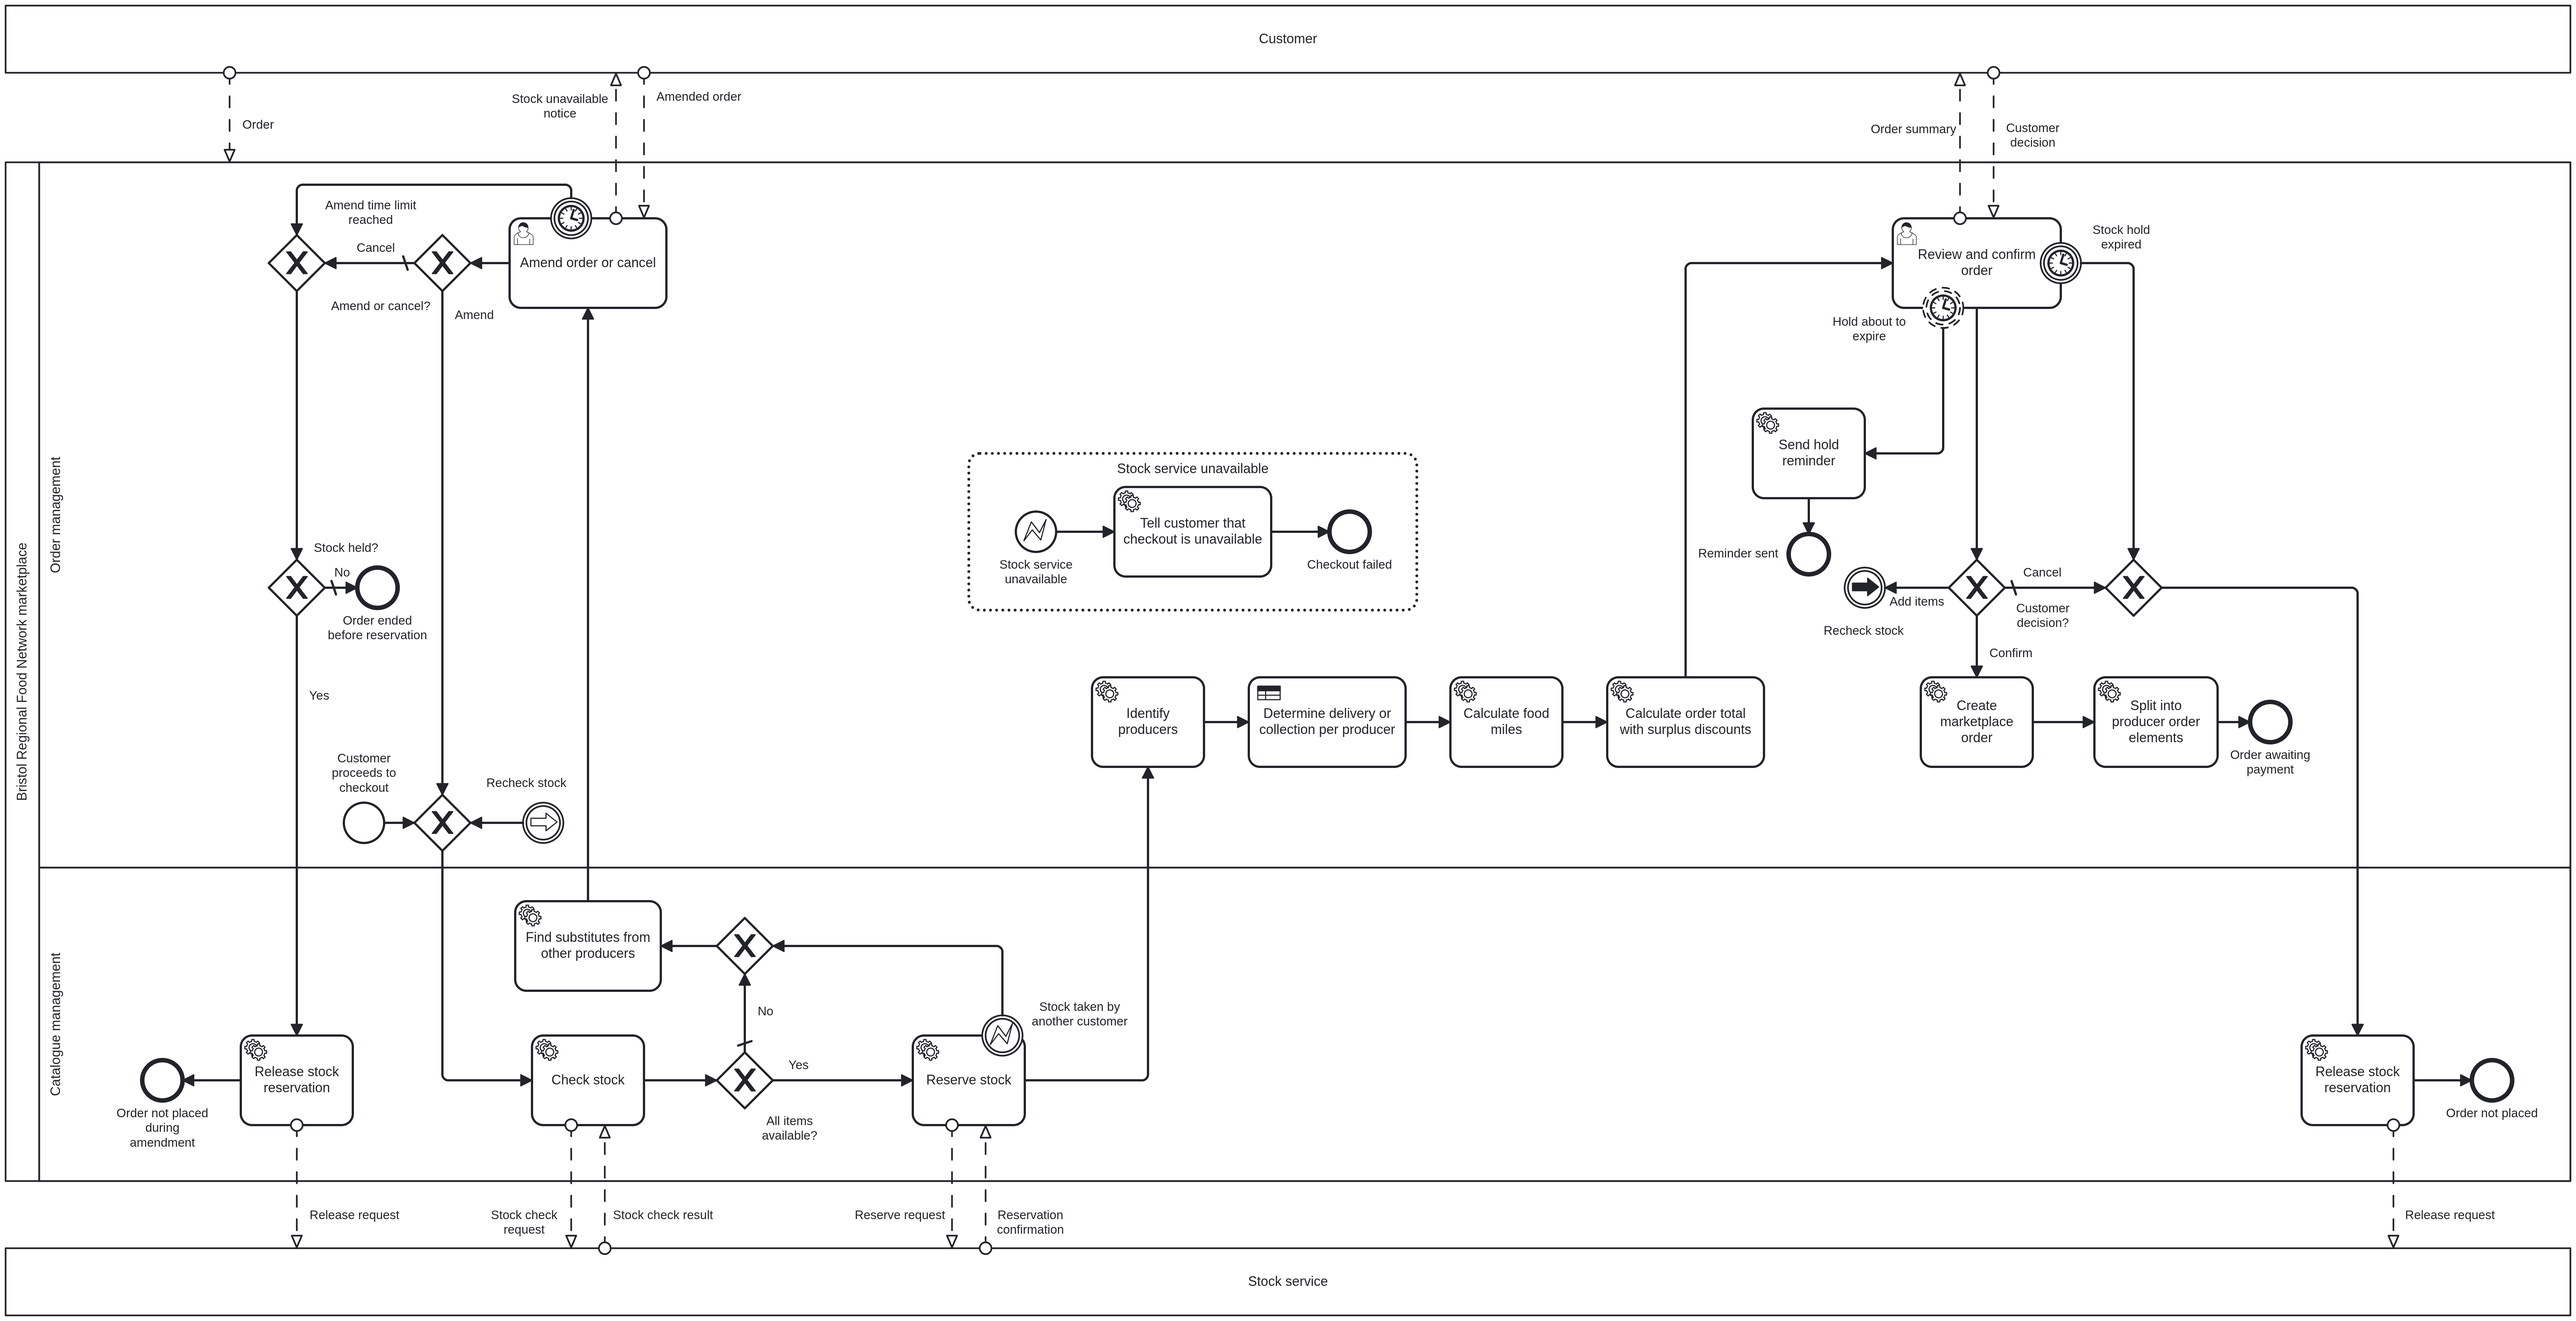
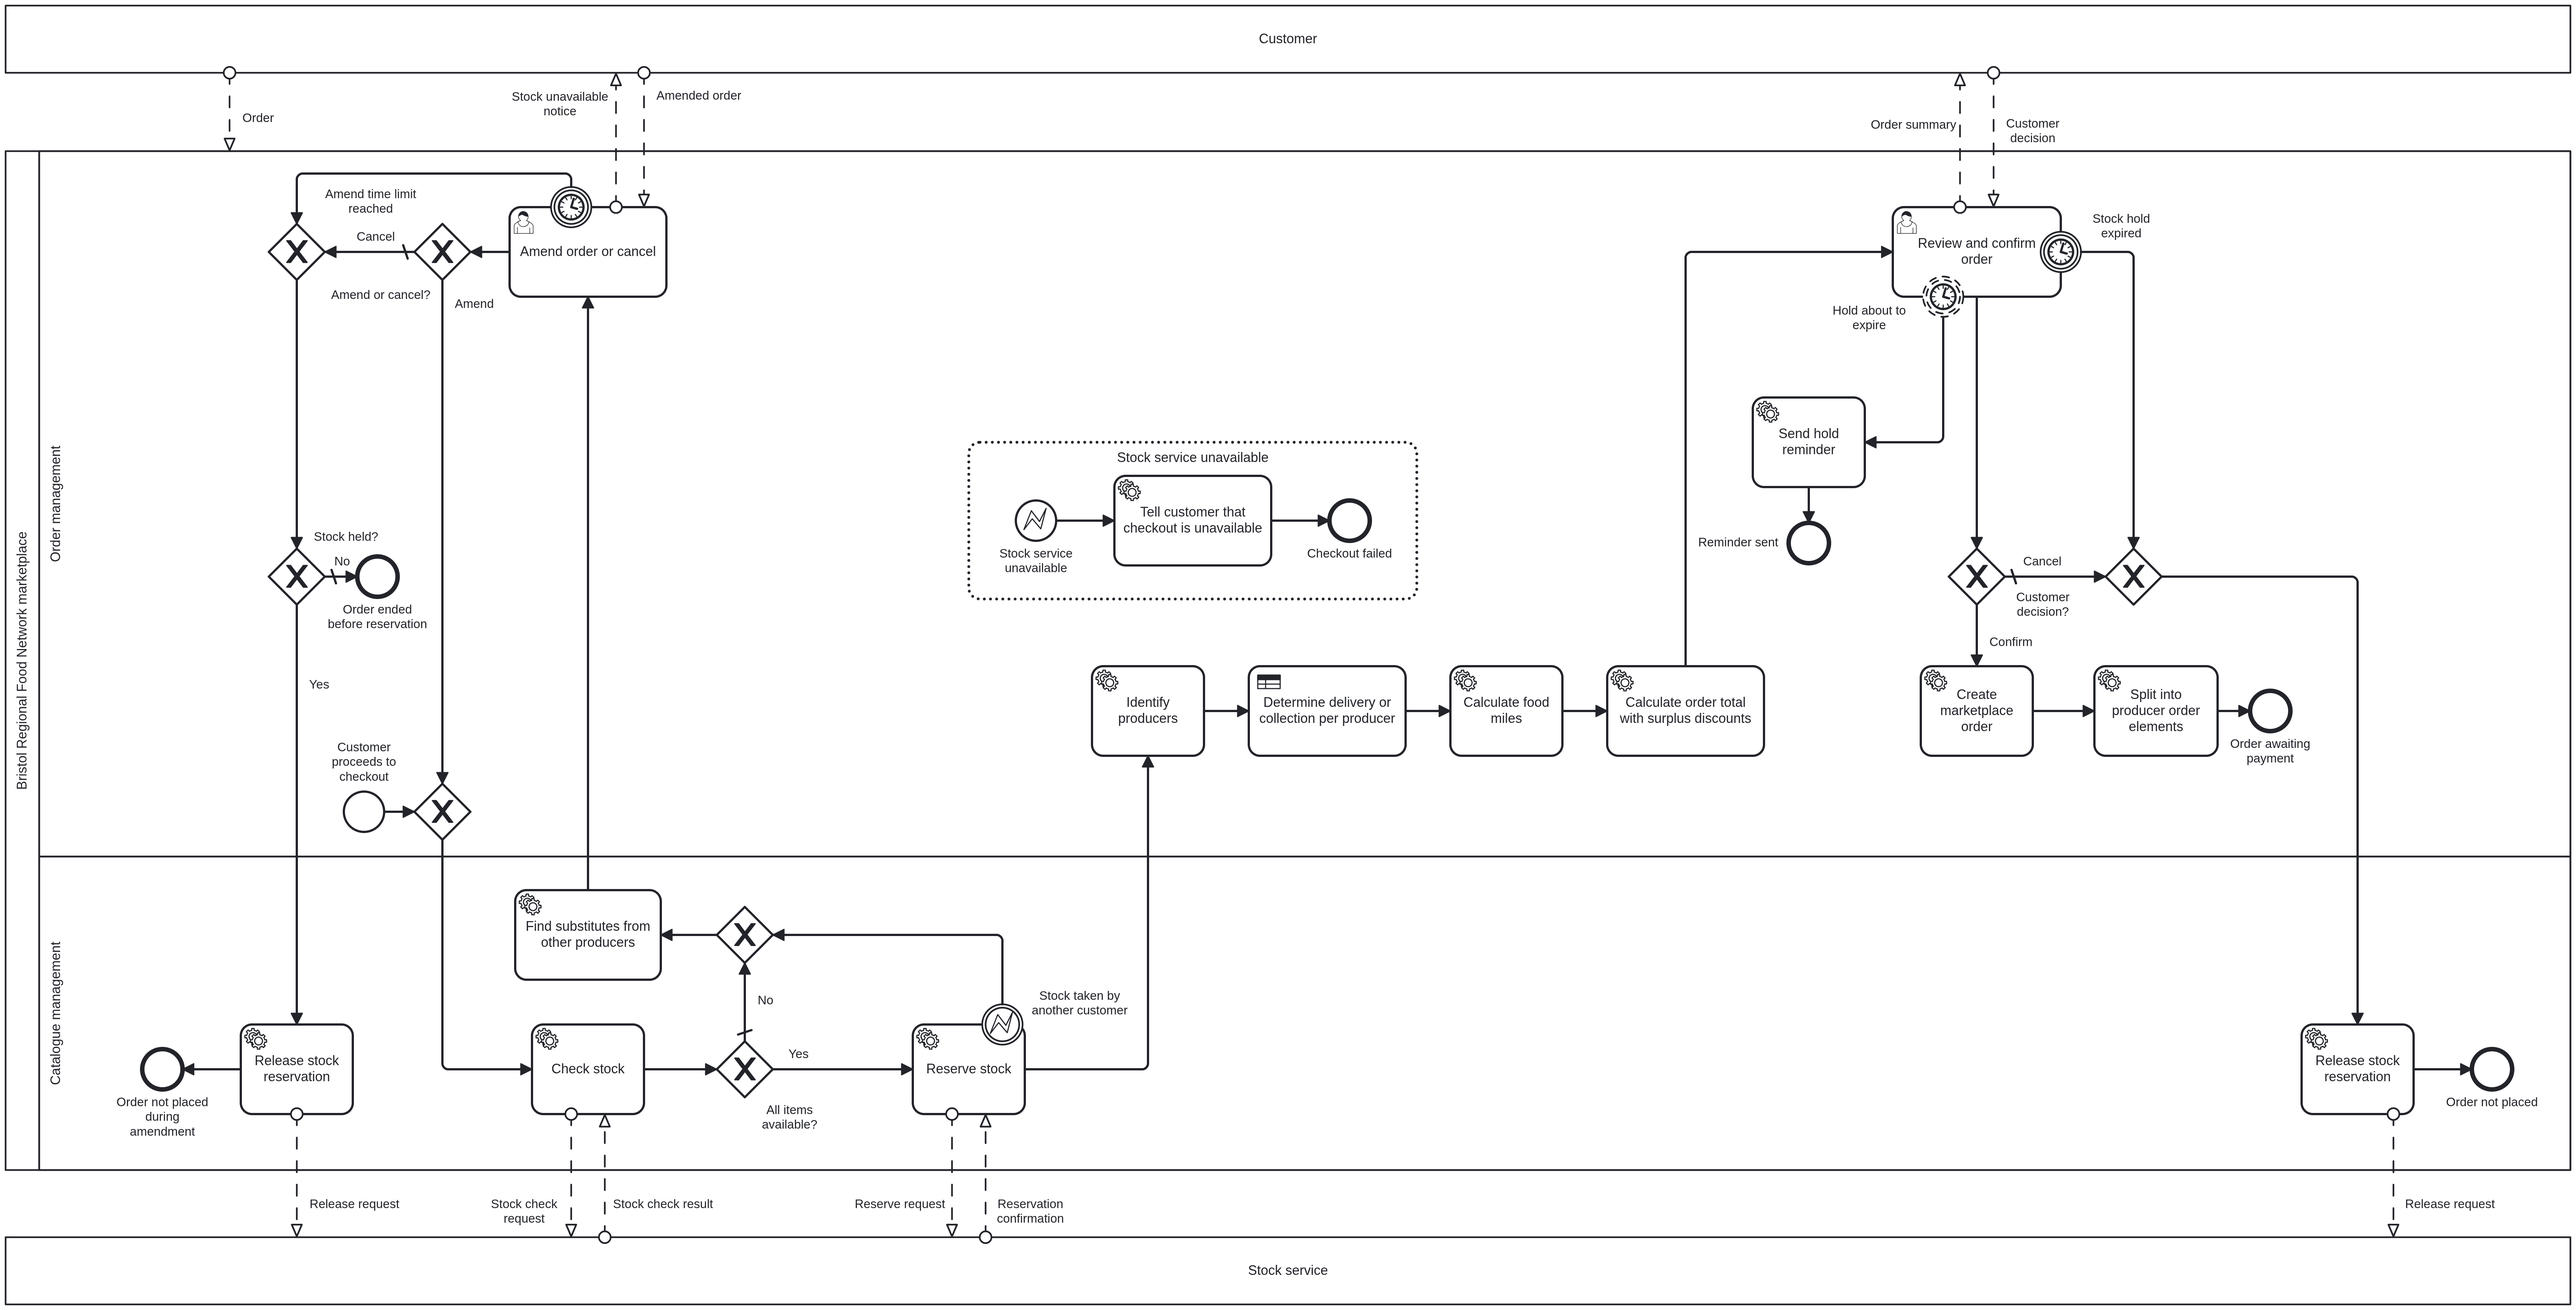
update md file and updated bpmn png

diff --git a/task1-bpmn/operational/process-order.md b/task1-bpmn/operational/process-order.md
@@ -26,6 +26,7 @@ The scope is section 4.2 of [functionalities.md](../../requirements/scope/functi
 | 12 Nov 2026 | Shamy | The exception paths and the timers: the substitutes, the stock taken during the reservation, the amend time limit, the stock hold expiry with its reminder, the "Add items" loop, the stock service failure, the food miles and the surplus discounts. The lane and pool names of the strategic model |
 | 13 Nov 2026 | Royden Dias | Review and approval |
 | 14 Nov 2026 | Hasaan Ahmad | The PNG export. The two forms. This document |
+| 27 Nov 2026 | Ishaq Modassir Mushtaq | Fixes after the first test run ([#172](https://github.com/ssrhaso/UFCFTR-30-3-DESP/issues/172)). The review form shows the method and the earliest date of each producer from `arrangements`, and the output `earliestFulfilmentAt` is removed, because it gave a different date from the worker. The "Add items" loop is removed, because the review had no way to add products and each loop left an unreleased reservation. Adding items belongs to browsing (P03) |
 
 ## 3. How to read the model
 
@@ -41,7 +42,7 @@ The scope is section 4.2 of [functionalities.md](../../requirements/scope/functi
 | Actor | Activities |
 |---|---|
 | The customer | The two user tasks, in Camunda Tasklist, with the two forms |
-| The process engine | The gateways, the three timers, the link events "Recheck stock" and the error events |
+| The process engine | The gateways, the three timers and the error events |
 | The job workers (6.1) | The 13 service and business rule tasks (section 8) |
 | External service | The stock service checks, reserves and releases the stock |
 
@@ -71,7 +72,6 @@ The scope is section 4.2 of [functionalities.md](../../requirements/scope/functi
 | The customer cancels at the amend task, or 30 minutes pass | "Stock held?" decides | Stock held: "Release stock reservation", then "Order not placed during amendment". No stock held: "Order ended before reservation" |
 | The stock hold is about to expire | Non-interrupting timer "Hold about to expire", then "Send hold reminder" | The review task stays open |
 | The stock hold expires | Interrupting timer "Stock hold expired" | "Release stock reservation", then "Order not placed" |
-| The customer adds items at the review | "Customer decision?" (Add items), link event "Recheck stock" | Back to "Check stock" |
 | The customer cancels at the review | "Customer decision?" (default) | "Release stock reservation", then "Order not placed" |
 | The stock service is unavailable | Error `STOCK_SERVICE_UNAVAILABLE` starts the event sub-process | "Tell customer that checkout is unavailable", then "Checkout failed" |
 
@@ -82,12 +82,13 @@ The scope is section 4.2 of [functionalities.md](../../requirements/scope/functi
 | `allAvailable` | `check-stock` | "All items available?" | In the model |
 | `reservationId` | `reserve-stock` | "Stock held?" | In the model |
 | `reservationExpiresAt`, `reservationReminderAt` | `reserve-stock` | The two timers on the review task. FN2 also reads `reservationExpiresAt` | In the model |
-| `addOnSuggestions` | `identify-producers` | The order summary | In the model |
+| `addOnSuggestions` | `identify-producers` | Nothing at present, because the "Add items" loop was removed | In the model |
 | `amendDecision` | Form `form-amend-order`: `amend` or `cancel` | "Amend or cancel?" | In the model |
-| `reviewDecision` | Form `form-review-order`: `confirm`, `addItems` or `cancel` | "Customer decision?" | In the model |
+| `reviewDecision` | Form `form-review-order`: `confirm` or `cancel` | "Customer decision?" | In the model |
 | `orderLines` | `calculate-order-total`: list of `productName`, `producerName`, `quantity`, `lineTotal` | Form `form-review-order` | Proposal for 6.1 |
 | `orderTotal` | `calculate-order-total` | Form `form-review-order`, FN2 | Proposal for 6.1. FN2 uses this name |
 | `foodMiles` | `calculate-food-miles`. Absent when there is no postcode | Form `form-review-order` (hidden when absent) | Proposal for 6.1 |
+| `arrangements` | `determine-arrangements`: list of `producerId`, `producerName`, `method`, `earliestDate` | Form `form-review-order` (table "Delivery or Collection") | In the model |
 | `unavailableItems` | `check-stock` or `reserve-stock`: list of `productName`, `producerName`, `requestedQuantity`, `availableQuantity` | Form `form-amend-order` | Proposal for 6.1 |
 | `substitutes` | `find-substitutes`: list of `productId`, `productName`, `producerName`, `unitPrice` | Form `form-amend-order` (hidden when empty) | Proposal for 6.1 |
 | `acceptedSubstitutes` | Form `form-amend-order`: list of `productId` | `check-stock` on the next check | Proposal for 6.1 |
